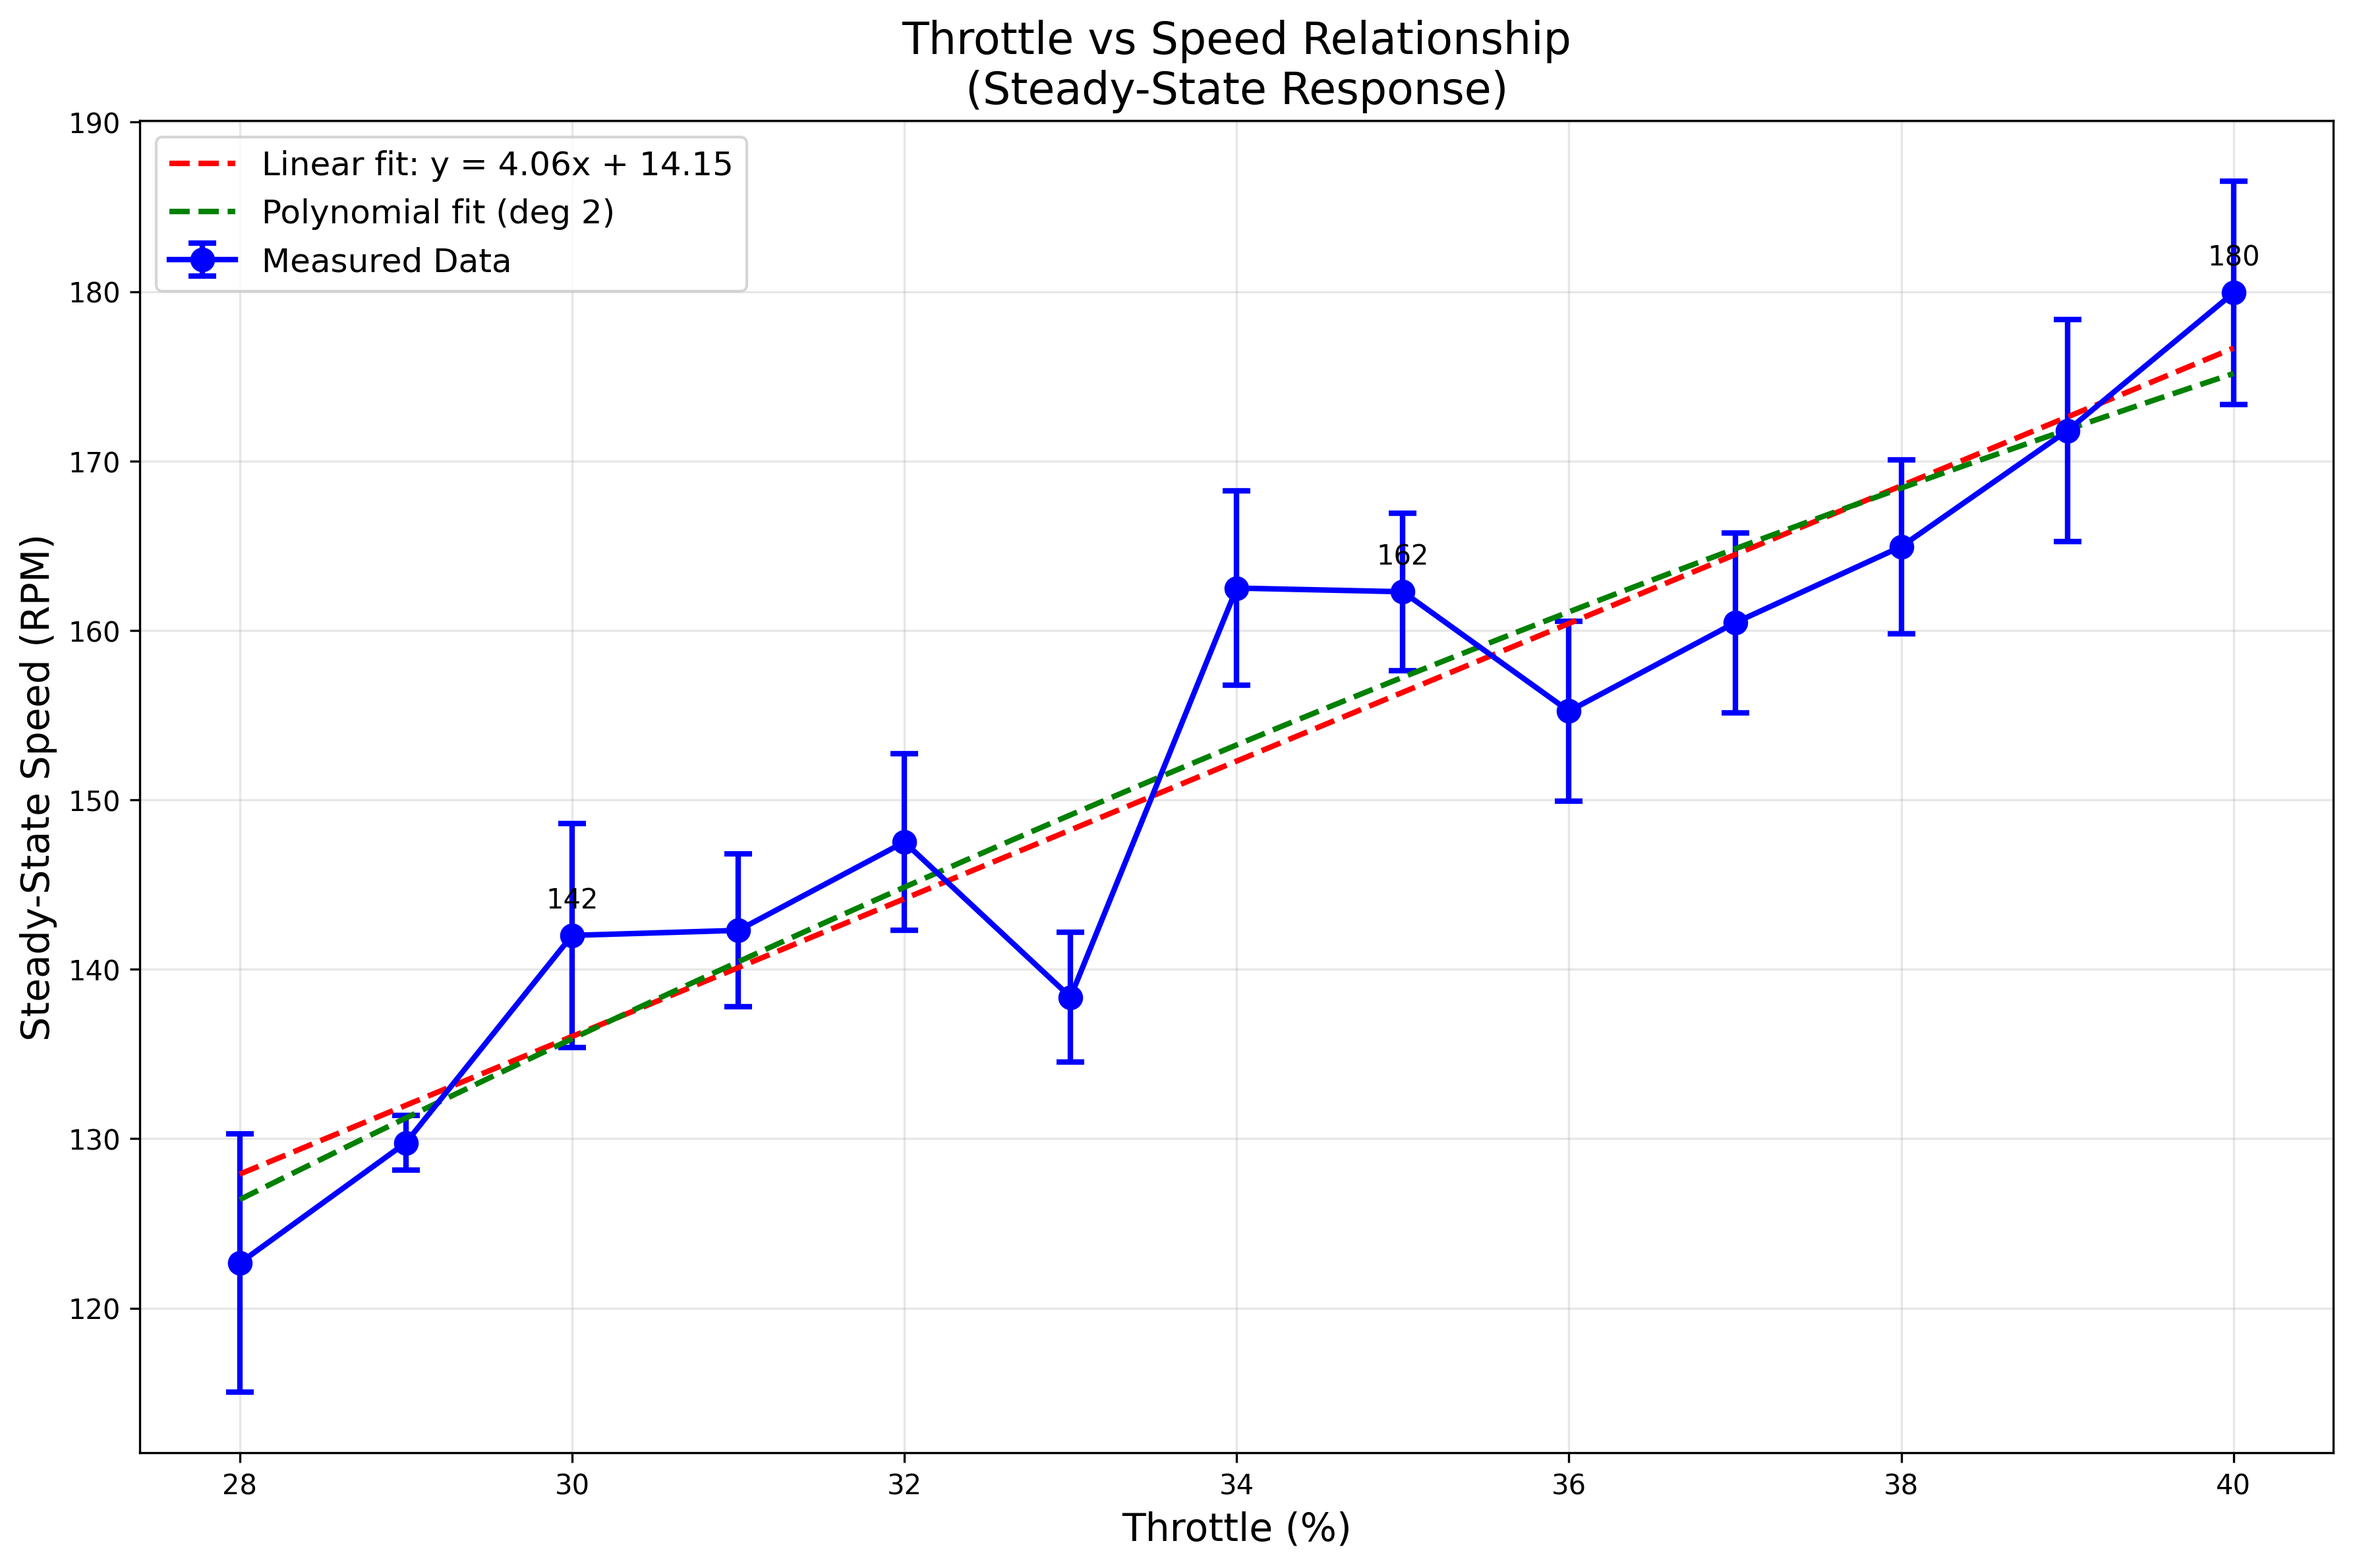
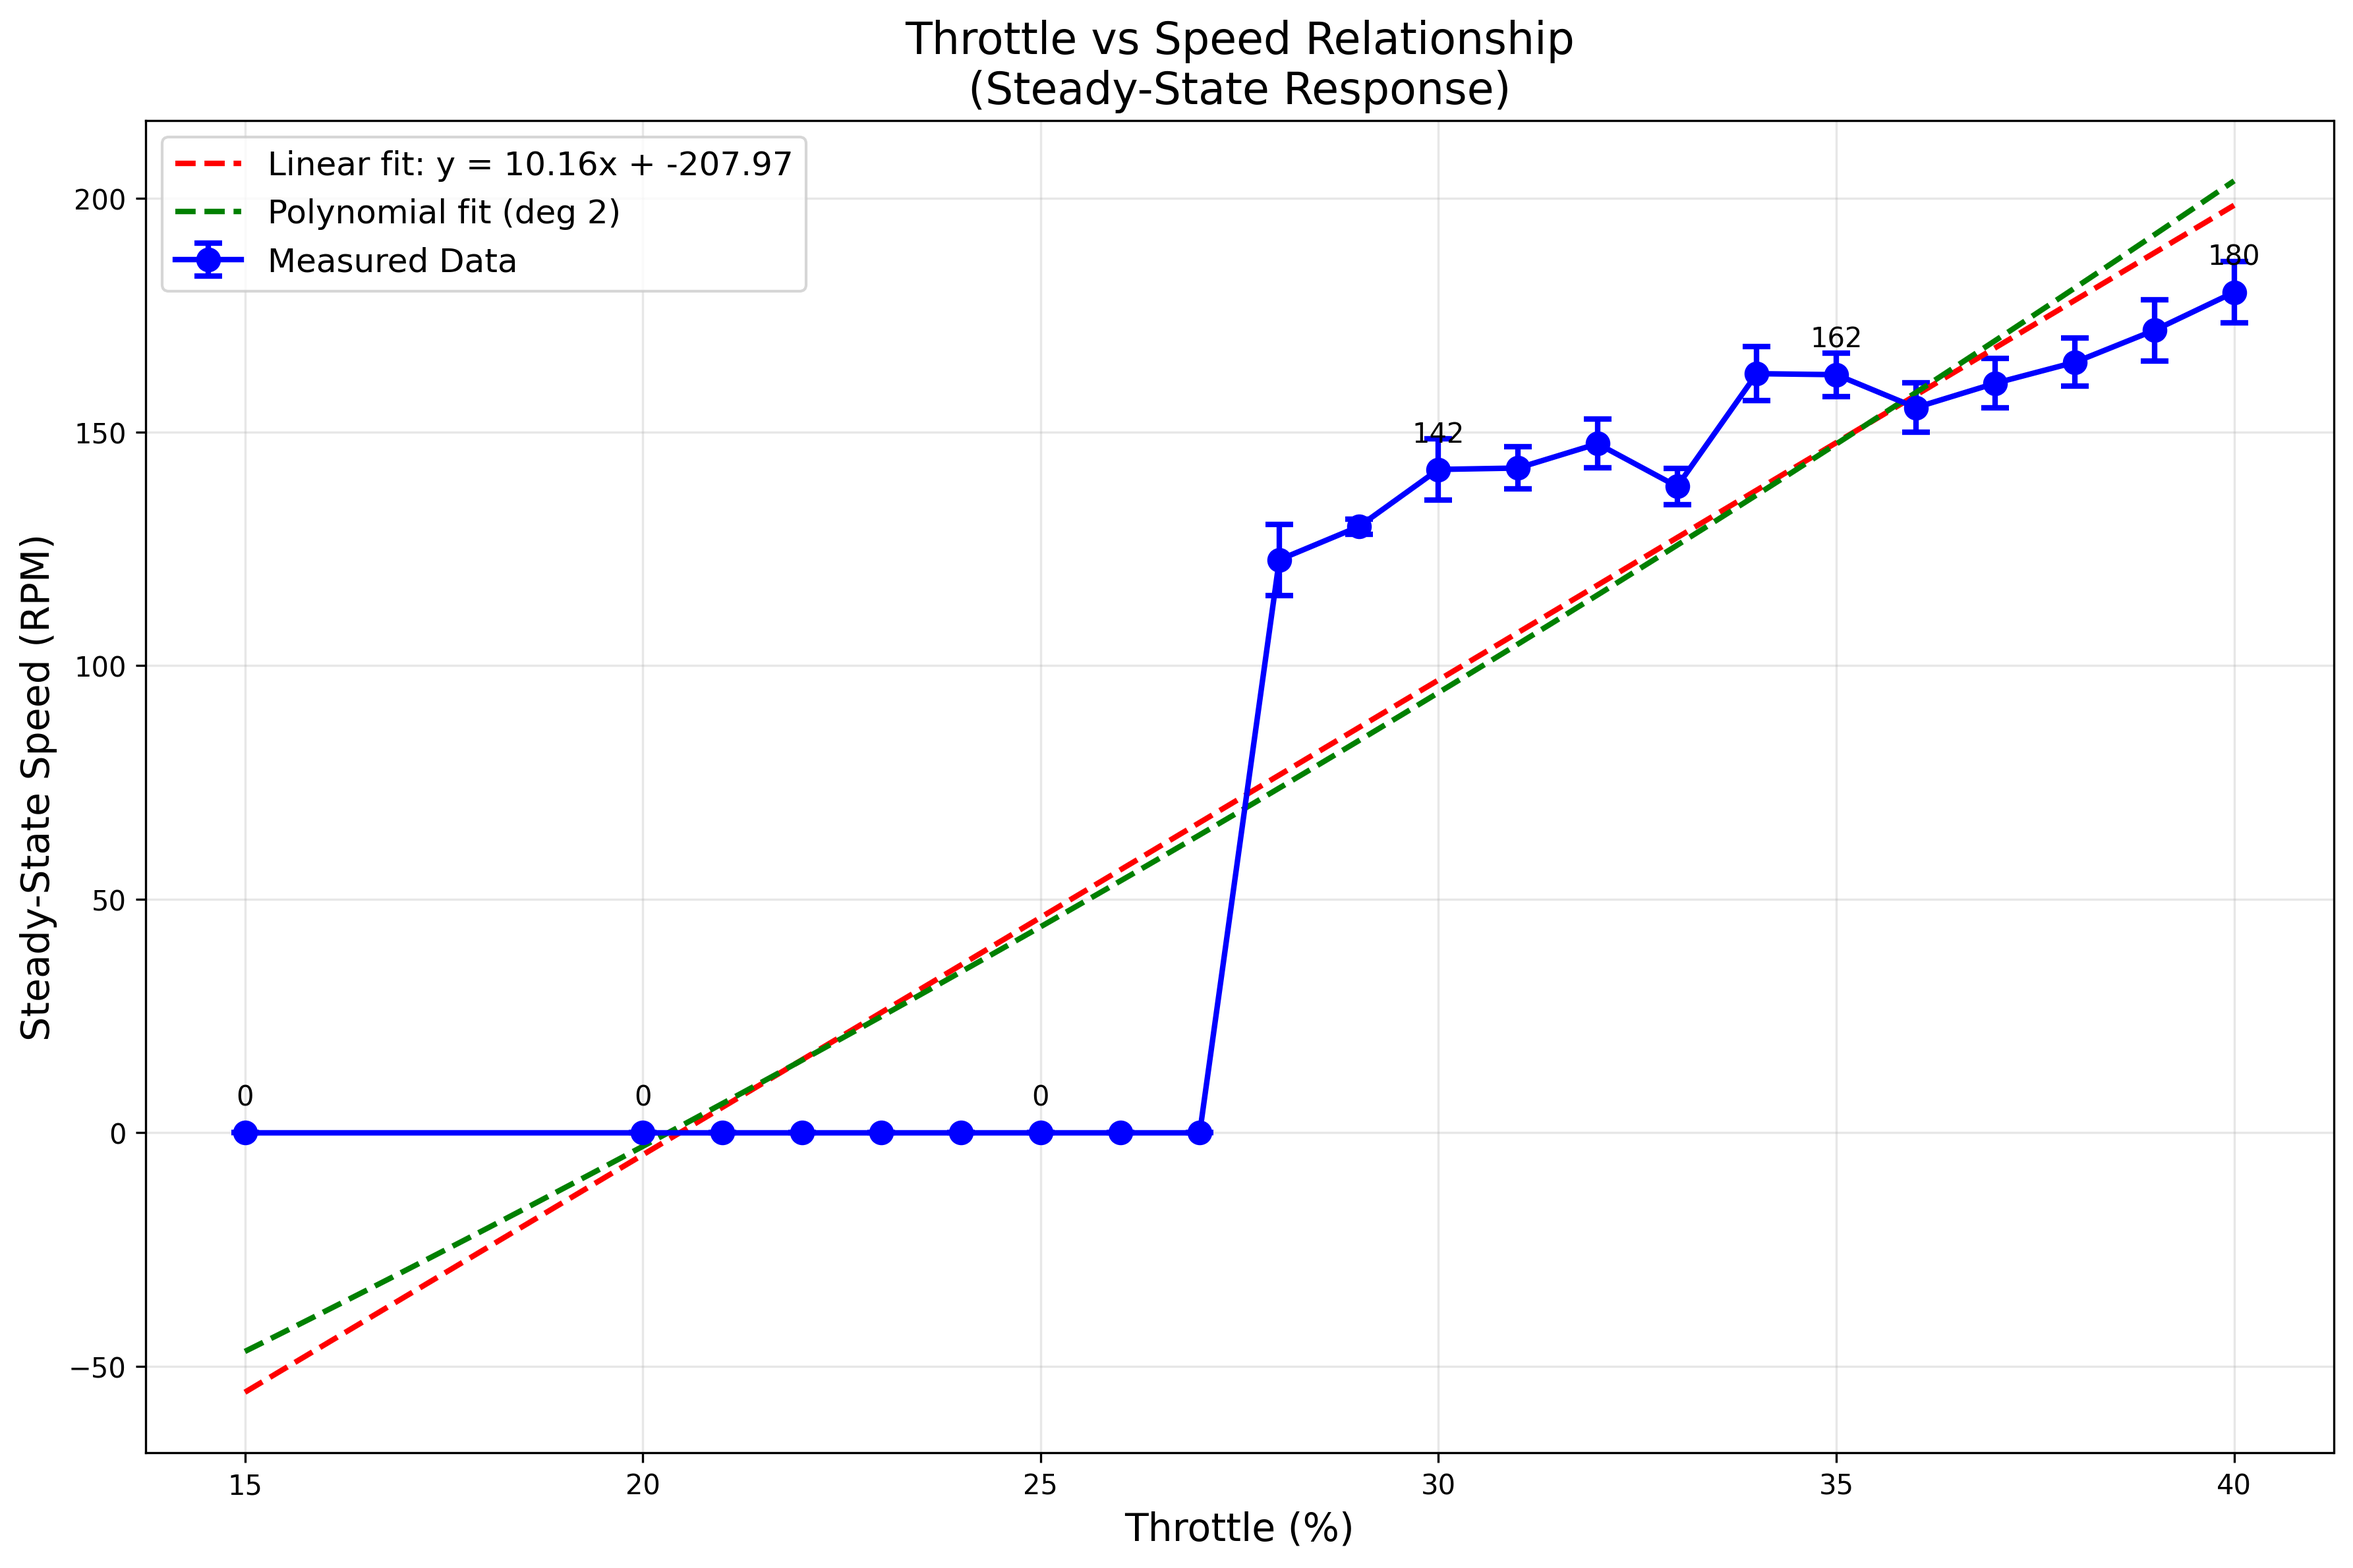
refactor: update PID controller coefficients for improved throttle response and adjust data filtering in analysis

diff --git a/tools/pid_calibrator/throttle_speed_relation.py b/tools/pid_calibrator/throttle_speed_relation.py
@@ -41,8 +41,8 @@ def analyze_throttle_speed_relationship():
         
         # Filter out outliers and zero speeds (motor stopped)
         clean_data = df[(df['speed'] >= lower_bound) & 
-                       (df['speed'] <= upper_bound) &
-                       (df['speed'] > 0)]
+                       (df['speed'] <= upper_bound) ]
+                    #    (df['speed'] > 0)]
         
         if len(clean_data) > 0:
             # Calculate steady-state speed (mean of last 50% of data points)

diff --git a/include/Controllers/SpeedPidController.hpp b/include/Controllers/SpeedPidController.hpp
@@ -51,12 +51,12 @@ private:
     // float Kp_c_ = 7.2154;
     // float tau_c_ = 0.3257;
     // float L_c_ = 0.1999;
-    float Kp_c_ = -93.71;
+    float Kp_c_ = 9.87;
     float tau_c_ = 0.4741;
     float L_c_ = 0.2009;
 
-    float a0_ = 22.12f;
-    float a1_ = 0.21f;
+    float a0_ = 20.797f;
+    float a1_ = 0.098f;
     // // Saturation limits
     
     // PID constants

diff --git a/tools/pid_calibrator/process_step_response.py b/tools/pid_calibrator/process_step_response.py
@@ -199,8 +199,8 @@ import numpy as np
 import matplotlib.pyplot as plt
 
 # Feed-forward coefficients
-A0 = 22.12  # throttle units at zero speed
-A1 = 0.21   # throttle units per RPM
+A0 = 20.80  # throttle units at zero speed
+A1 = 0.098   # throttle units per RPM
 
 
 def load_data(filepath):
